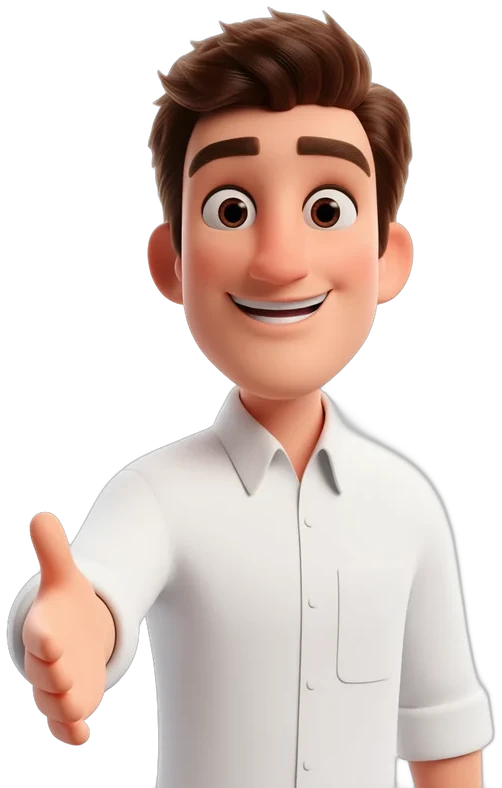
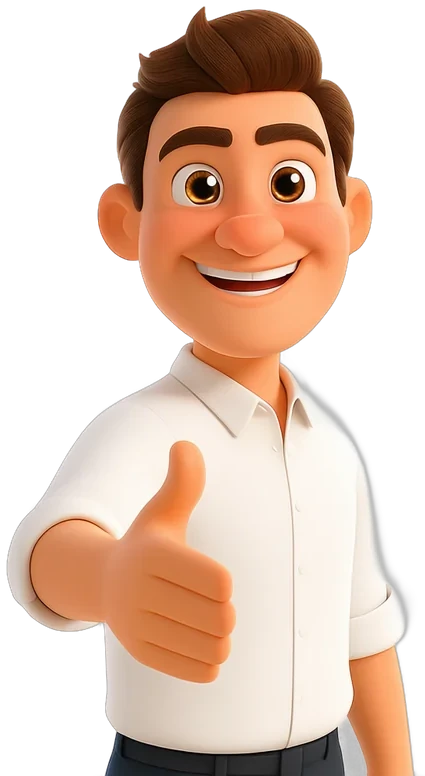
Anciens Marshall remis (fin de l'accueil, « Bosse avec Marshall ») ; marshall-studio-equipe = essai 1
- index.html, section « 30 minutes, un plan clair » : marshall-coucou.webp de nouveau.
- decouvrir-studio-social.html, « Bosse avec Marshall » : marshall-bravo.webp de nouveau.
- images/marshall-studio-equipe.webp : essai 1 (pouce levé) au lieu de l'essai 2.

Claude-Session: https://claude.ai/code/session_01LMsY6R9vy5tTYB5779smmK

diff --git a/decouvrir-studio-social.html b/decouvrir-studio-social.html
@@ -618,7 +618,7 @@
   <span class="lbl">On s’y met&nbsp;?</span>
   <h2 class="disp" id="touch-title"><span class="mask"><span>Bosse</span></span><span class="mask"><span><em>avec</em></span></span><span class="mask"><span>Marshall</span></span></h2>
   <div class="go"><a class="btn fill" href="studio-social.html?inscription=1">Créer mon compte gratuit <svg width="18" height="18" viewBox="0 0 24 24" fill="none" stroke="currentColor" stroke-width="2"><path d="M5 12h14M13 5l7 7-7 7"/></svg></a></div>
-  <img class="bravo" id="bravo" src="images/marshall-studio-equipe.webp" alt="Marshall vous tend la main" loading="lazy">
+  <img class="bravo" id="bravo" src="images/marshall-bravo.webp" alt="Marshall applaudit" loading="lazy">
 </section>
 </main>
 

diff --git a/index.html b/index.html
@@ -629,7 +629,7 @@
     <a class="btn blanc" href="rendez-vous.html">Réserver mon audit gratuit <svg viewBox="0 0 24 24" fill="none" stroke="currentColor" stroke-width="2"><path d="M5 12h14M13 5l7 7-7 7"/></svg></a>
     <button type="button" class="btn blanc" id="ecrire-marshall">Écrire à Marshall</button>
   </div>
-  <img class="coucou marshall" id="coucou" src="images/marshall-accueil-rdv.webp" width="820" height="1359" alt="Marshall vous montre l’agenda sur son téléphone" loading="lazy">
+  <img class="coucou marshall" id="coucou" src="images/marshall-coucou.webp" alt="Marshall vous fait coucou" loading="lazy">
 </section>
 </main>
 
